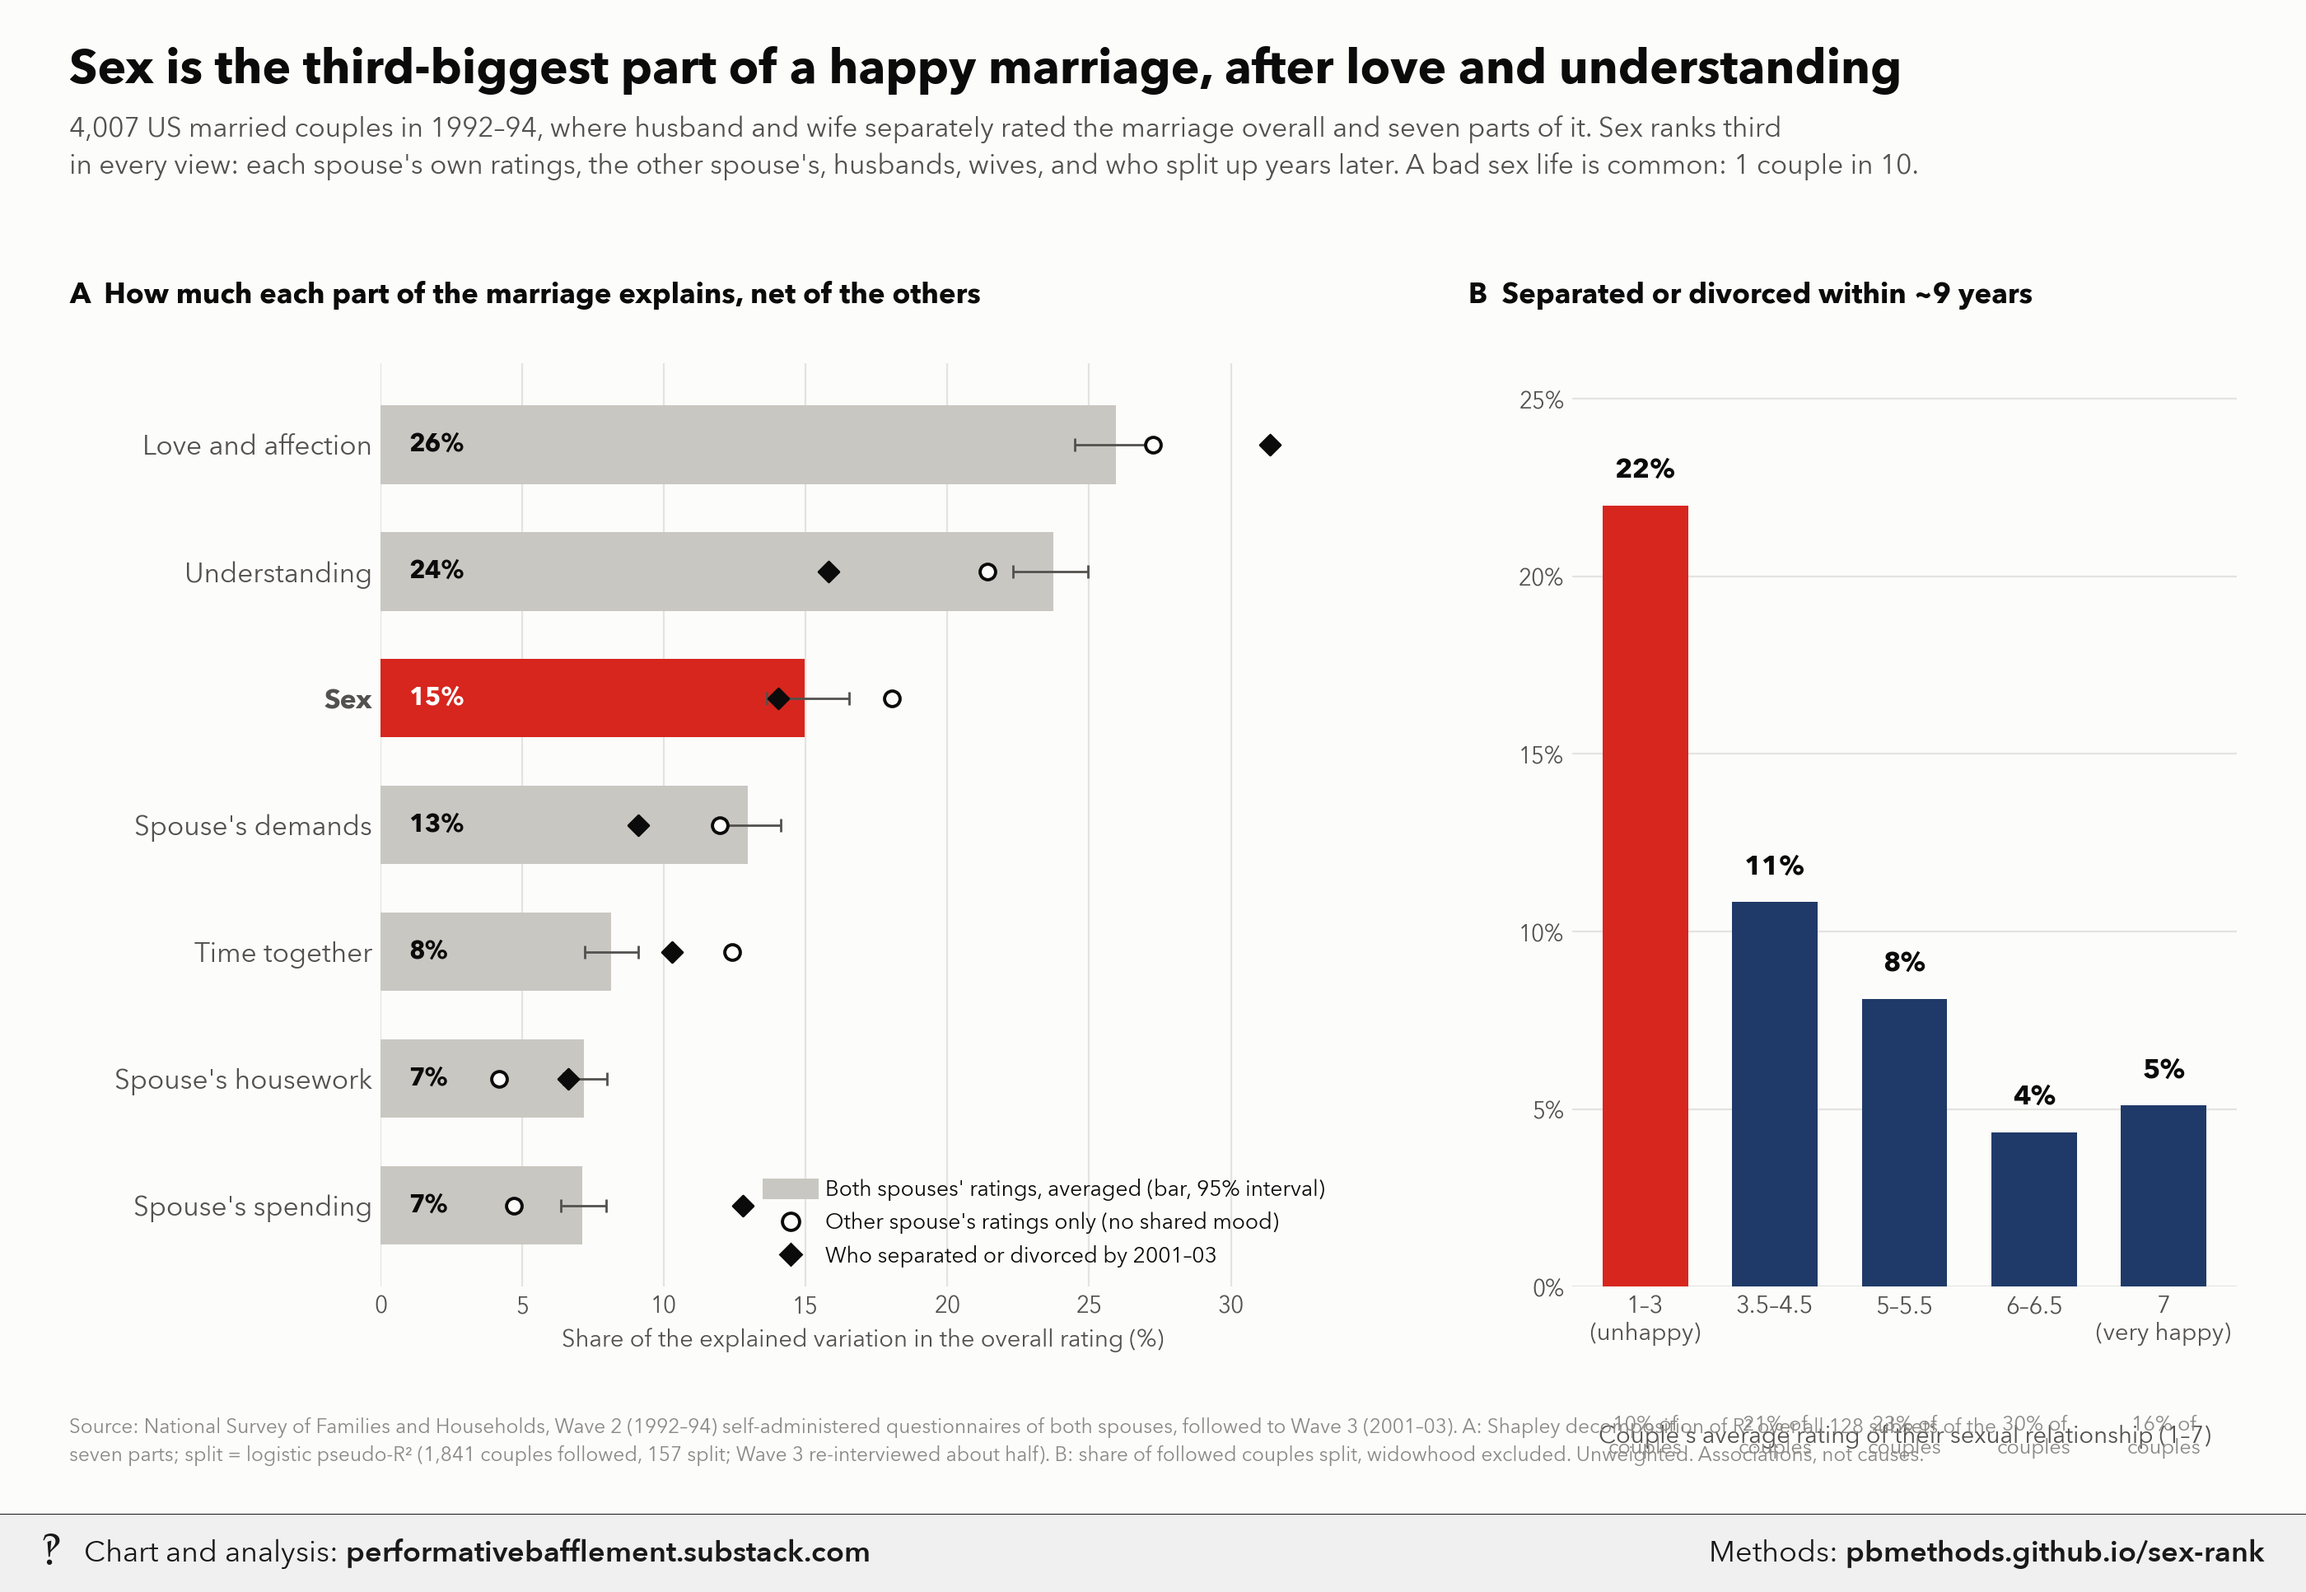
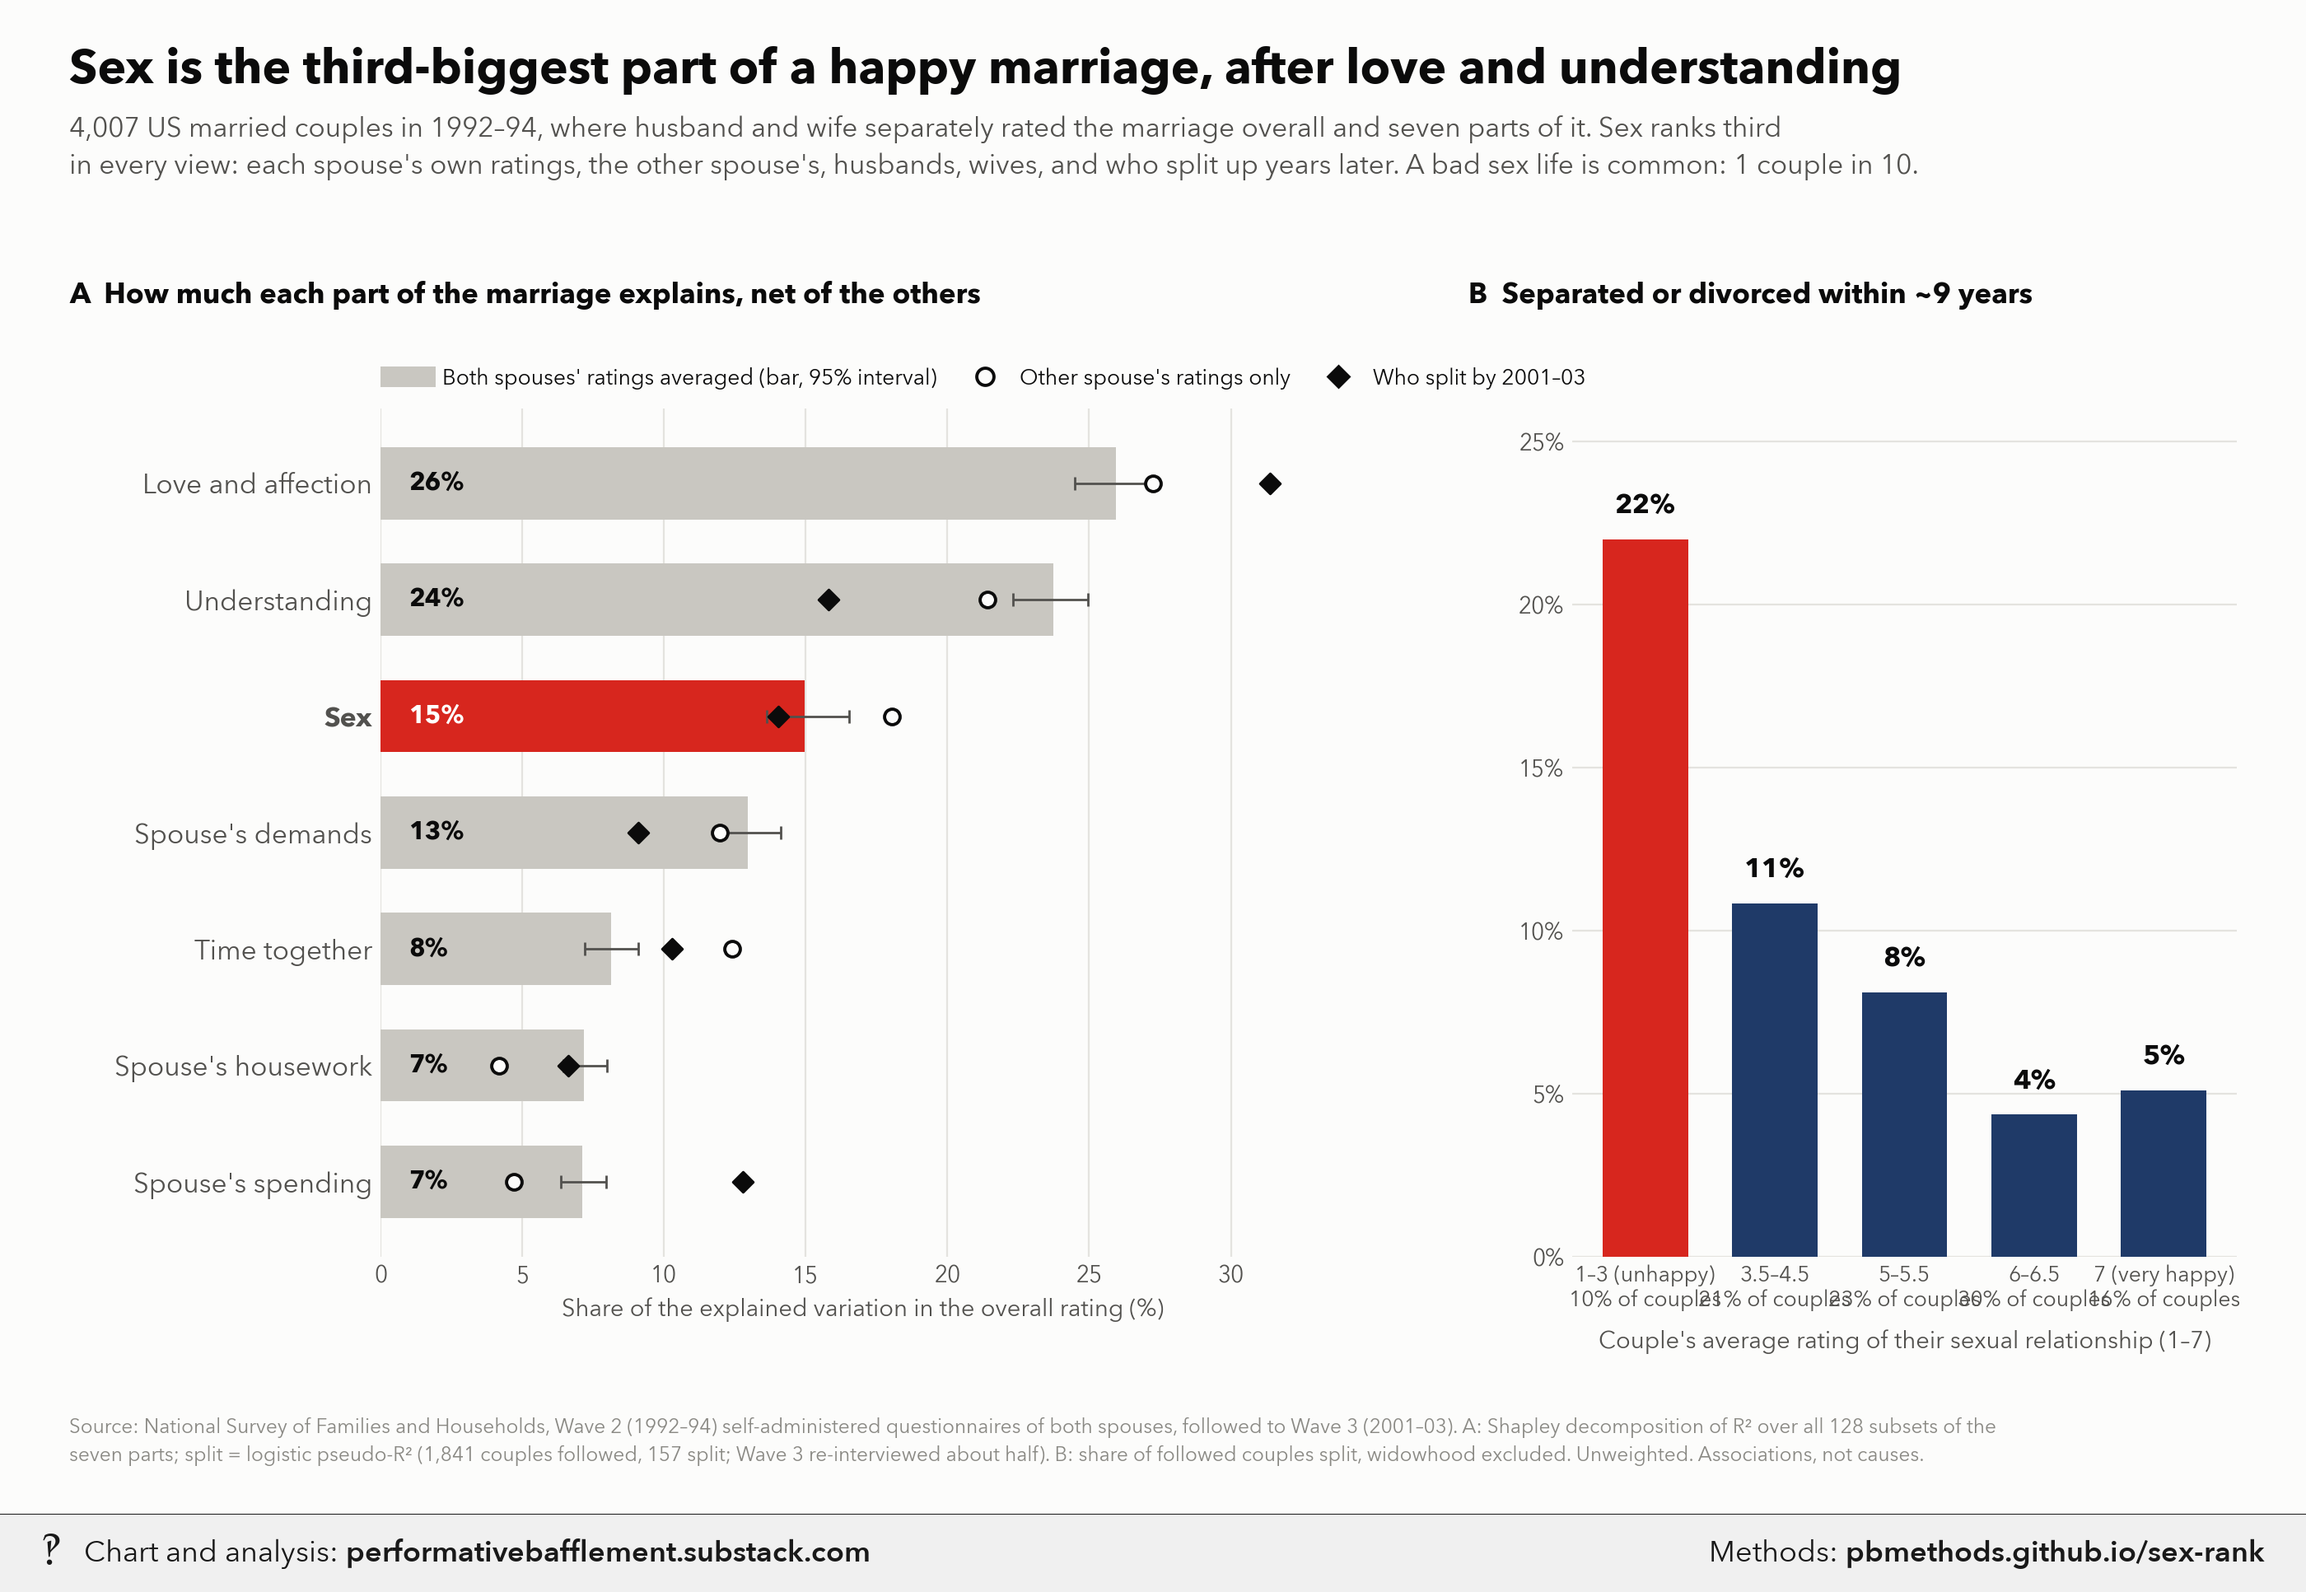
Update sex-rank

diff --git a/sex-rank/index.html b/sex-rank/index.html
@@ -1444,7 +1444,7 @@ split = sh[sh.lens == &quot;split&quot;].set_index(&quot;part&quot;)
 n_couples, n_followed, n_split = int(cpl.n.iloc[0]), int(split.n.iloc[0]), int(split.events.iloc[0])
 
 fig = plt.figure(figsize=(14, 9.2))
-gs = fig.add_gridspec(1, 2, width_ratios=[1.45, 1], left=0.165, right=0.97, top=0.76, bottom=0.15, wspace=0.28)
+gs = fig.add_gridspec(1, 2, width_ratios=[1.45, 1], left=0.165, right=0.97, top=0.73, bottom=0.17, wspace=0.28)
 axA, axB = fig.add_subplot(gs[0]), fig.add_subplot(gs[1])
 
 # A
@@ -1469,27 +1469,29 @@ axA.grid(axis=&quot;x&quot;, color=pb.GRID, linewidth=0.8, zorder=0)
 axA.grid(axis=&quot;y&quot;, visible=False)
 axA.tick_params(axis=&quot;y&quot;, length=0)
 axA.legend(handles=[
-    Line2D([], [], color=pb.MUTE, linewidth=9, label=&quot;Both spouses' ratings, averaged (bar, 95% interval)&quot;),
+    Line2D([], [], color=pb.MUTE, linewidth=9, label=&quot;Both spouses' ratings averaged (bar, 95% interval)&quot;),
     Line2D([], [], marker=&quot;o&quot;, linestyle=&quot;none&quot;, markerfacecolor=pb.SURFACE, markeredgecolor=pb.INK, markersize=7.5,
-           markeredgewidth=1.4, label=&quot;Other spouse's ratings only (no shared mood)&quot;),
+           markeredgewidth=1.4, label=&quot;Other spouse's ratings only&quot;),
     Line2D([], [], marker=&quot;D&quot;, linestyle=&quot;none&quot;, color=pb.INK, markersize=6.5,
-           label=f&quot;Who separated or divorced by 2001–03&quot;)],
-    loc=&quot;lower right&quot;, fontsize=9.5, frameon=False, handlelength=1.6)
+           label=&quot;Who split by 2001–03&quot;)],
+    loc=&quot;lower left&quot;, bbox_to_anchor=(-0.01, 1.0), ncol=3, fontsize=9.5, frameon=False, handlelength=1.6,
+    columnspacing=1.4)
 fig.text(0.03, 0.80, &quot;A  How much each part of the marriage explains, net of the others&quot;, fontsize=12.5,
          fontweight=&quot;bold&quot;)
 
 # B
 s = lv[lv.part == &quot;Sex&quot;].reset_index(drop=True)
-labels = [&quot;1–3\n(unhappy)&quot;, &quot;3.5–4.5&quot;, &quot;5–5.5&quot;, &quot;6–6.5&quot;, &quot;7\n(very happy)&quot;]
+shares = s.couples / s.couples.sum() * 100
+labels = [f&quot;{b}\n{sh:.0f}% of couples&quot; for b, sh in
+          zip([&quot;1–3 (unhappy)&quot;, &quot;3.5–4.5&quot;, &quot;5–5.5&quot;, &quot;6–6.5&quot;, &quot;7 (very happy)&quot;], shares)]
 xb = np.arange(len(s))
 axB.bar(xb, s.split_pct, color=[pb.RED] + [pb.NAVY] * (len(s) - 1), width=0.66, zorder=2)
-for xi, (v, n, share) in enumerate(zip(s.split_pct, s.followed, s.couples / s.couples.sum() * 100)):
+for xi, v in enumerate(s.split_pct):
     axB.text(xi, v + 0.6, f&quot;{v:.0f}%&quot;, ha=&quot;center&quot;, va=&quot;bottom&quot;, fontsize=12, fontweight=&quot;bold&quot;)
-    axB.text(xi, -3.6, f&quot;{share:.0f}% of\ncouples&quot;, ha=&quot;center&quot;, va=&quot;top&quot;, fontsize=9, color=pb.MUTED)
-axB.set_xticks(xb, labels, fontsize=10.5)
+axB.set_xticks(xb, labels, fontsize=9.5)
 axB.set_ylim(0, 26)
 axB.set_yticks([0, 5, 10, 15, 20, 25], [f&quot;{v}%&quot; for v in [0, 5, 10, 15, 20, 25]])
-axB.set_xlabel(&quot;Couple's average rating of their sexual relationship (1–7)&quot;, fontsize=10.5, labelpad=34)
+axB.set_xlabel(&quot;Couple's average rating of their sexual relationship (1–7)&quot;, fontsize=10.5, labelpad=8)
 axB.grid(axis=&quot;y&quot;, color=pb.GRID, linewidth=0.8, zorder=0)
 axB.grid(axis=&quot;x&quot;, visible=False)
 axB.tick_params(axis=&quot;x&quot;, length=0)

diff --git a/sex-rank/methods.md b/sex-rank/methods.md
@@ -474,7 +474,7 @@ split = sh[sh.lens == "split"].set_index("part")
 n_couples, n_followed, n_split = int(cpl.n.iloc[0]), int(split.n.iloc[0]), int(split.events.iloc[0])
 
 fig = plt.figure(figsize=(14, 9.2))
-gs = fig.add_gridspec(1, 2, width_ratios=[1.45, 1], left=0.165, right=0.97, top=0.76, bottom=0.15, wspace=0.28)
+gs = fig.add_gridspec(1, 2, width_ratios=[1.45, 1], left=0.165, right=0.97, top=0.73, bottom=0.17, wspace=0.28)
 axA, axB = fig.add_subplot(gs[0]), fig.add_subplot(gs[1])
 
 # A
@@ -499,27 +499,29 @@ axA.grid(axis="x", color=pb.GRID, linewidth=0.8, zorder=0)
 axA.grid(axis="y", visible=False)
 axA.tick_params(axis="y", length=0)
 axA.legend(handles=[
-    Line2D([], [], color=pb.MUTE, linewidth=9, label="Both spouses' ratings, averaged (bar, 95% interval)"),
+    Line2D([], [], color=pb.MUTE, linewidth=9, label="Both spouses' ratings averaged (bar, 95% interval)"),
     Line2D([], [], marker="o", linestyle="none", markerfacecolor=pb.SURFACE, markeredgecolor=pb.INK, markersize=7.5,
-           markeredgewidth=1.4, label="Other spouse's ratings only (no shared mood)"),
+           markeredgewidth=1.4, label="Other spouse's ratings only"),
     Line2D([], [], marker="D", linestyle="none", color=pb.INK, markersize=6.5,
-           label=f"Who separated or divorced by 2001–03")],
-    loc="lower right", fontsize=9.5, frameon=False, handlelength=1.6)
+           label="Who split by 2001–03")],
+    loc="lower left", bbox_to_anchor=(-0.01, 1.0), ncol=3, fontsize=9.5, frameon=False, handlelength=1.6,
+    columnspacing=1.4)
 fig.text(0.03, 0.80, "A  How much each part of the marriage explains, net of the others", fontsize=12.5,
          fontweight="bold")
 
 # B
 s = lv[lv.part == "Sex"].reset_index(drop=True)
-labels = ["1–3\n(unhappy)", "3.5–4.5", "5–5.5", "6–6.5", "7\n(very happy)"]
+shares = s.couples / s.couples.sum() * 100
+labels = [f"{b}\n{sh:.0f}% of couples" for b, sh in
+          zip(["1–3 (unhappy)", "3.5–4.5", "5–5.5", "6–6.5", "7 (very happy)"], shares)]
 xb = np.arange(len(s))
 axB.bar(xb, s.split_pct, color=[pb.RED] + [pb.NAVY] * (len(s) - 1), width=0.66, zorder=2)
-for xi, (v, n, share) in enumerate(zip(s.split_pct, s.followed, s.couples / s.couples.sum() * 100)):
+for xi, v in enumerate(s.split_pct):
     axB.text(xi, v + 0.6, f"{v:.0f}%", ha="center", va="bottom", fontsize=12, fontweight="bold")
-    axB.text(xi, -3.6, f"{share:.0f}% of\ncouples", ha="center", va="top", fontsize=9, color=pb.MUTED)
-axB.set_xticks(xb, labels, fontsize=10.5)
+axB.set_xticks(xb, labels, fontsize=9.5)
 axB.set_ylim(0, 26)
 axB.set_yticks([0, 5, 10, 15, 20, 25], [f"{v}%" for v in [0, 5, 10, 15, 20, 25]])
-axB.set_xlabel("Couple's average rating of their sexual relationship (1–7)", fontsize=10.5, labelpad=34)
+axB.set_xlabel("Couple's average rating of their sexual relationship (1–7)", fontsize=10.5, labelpad=8)
 axB.grid(axis="y", color=pb.GRID, linewidth=0.8, zorder=0)
 axB.grid(axis="x", visible=False)
 axB.tick_params(axis="x", length=0)
